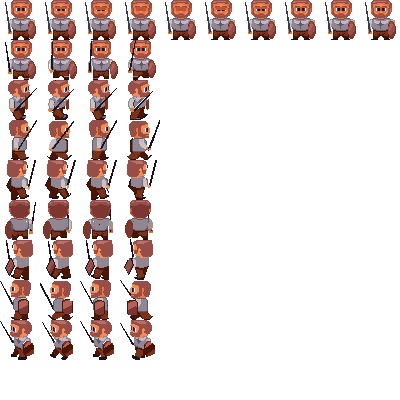
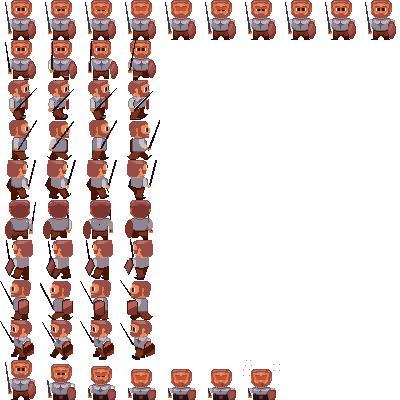
Added player one death animation

Changed region(s): [[0.12, 0.9, 0.39, 1.0], [0.42, 0.9, 0.69, 1.0], [0.0, 0.9, 0.09, 1.0]]

diff --git a/js/player/warrior.js b/js/player/warrior.js
@@ -17,6 +17,7 @@ function warriorClass() {
 	this.canMoveEast = true;
 	this.canMoveSouth = true;
 	this.canMoveWest = true;	
+	this.alive = true;
 	this.health = 4;
 	this.maxHealth = 4;
 	this.trapCoolDownTimer = 0;
@@ -380,26 +381,33 @@ function warriorClass() {
 	}
 		
 	this.draw = function(){
-		if(this.offSetHeight == 0 && !this.playerAttacking){ //player is standing still
-			let toAnimatePlayerNumber = getRndInteger(0, 1000);
-			if(toAnimatePlayerNumber > 995){
-				this.animatePlayerStandingStill = true;
+		if(this.alive){
+			if(this.offSetHeight == 0 && !this.playerAttacking){ //player is standing still
+				let toAnimatePlayerNumber = getRndInteger(0, 1000);
+				if(toAnimatePlayerNumber > 995){
+					this.animatePlayerStandingStill = true;
+				}
+				if(this.animatePlayerStandingStill){
+					this.frames = 8;
+					this.animateWarrior()
+				}
+			} else if (this.playerAttacking){ //player not standing still and attacking
+				this.myBitmap = warriorAttackingPic;
+				this.width = 80;
+				this.height = 60;
+				this.frames = 2;
+				this.offSetHeight = this.offSetHeight - this.height
+				this.animateWarrior();
+		
+			} else { //player is moving and NOT attacking
+				this.frames = 3;
+				this.animateWarrior();
 			}
-			if(this.animatePlayerStandingStill){
-				this.frames = 8;
-				this.animateWarrior()
-			}
-		} else if (this.playerAttacking){ //player not standing still and attacking
-			this.myBitmap = warriorAttackingPic;
-			this.width = 80;
-			this.height = 60;
-			this.frames = 2;
-			this.offSetHeight = this.offSetHeight - this.height
-			this.animateWarrior();
-		} else { //player is moving and NOT attacking
-			this.frames = 3;
-			this.animateWarrior();
-		}
+		} else {
+			this.frames = 9;
+			this.animateDeath();
+		} 
+
 		gameCoordToIsoCoord(this.x,this.y);
 		canvasContext.drawImage(shadowPic,isoDrawX-(this.width/2), isoDrawY-this.height + ISO_SHADOW_OFFSET_Y);
 		canvasContext.drawImage(this.myBitmap, this.offSetWidth, this.offSetHeight, this.width, this.height, 
@@ -451,6 +459,23 @@ function warriorClass() {
 			this.width = 40;
 			this.height = 40;
 			this.myBitmap = warriorPic;
+		}
+	}
+
+	this.animateDeath = function(){
+		this.offSetHeight = 40 * 9;
+		this.myBitmap = warriorPic;
+		this.width = 40;
+		this.height = 40;
+		this.frames = 6;
+
+		this.drawTimer++;
+		if(this.drawTimer == 16){
+			this.offSetWidth = this.offSetWidth + this.width;
+			this.drawTimer = 0;
+		}
+		if(this.offSetWidth > (this.frames * this.width)){
+			this.offSetWidth = 40 * 4;		
 		}
 	}
 		
